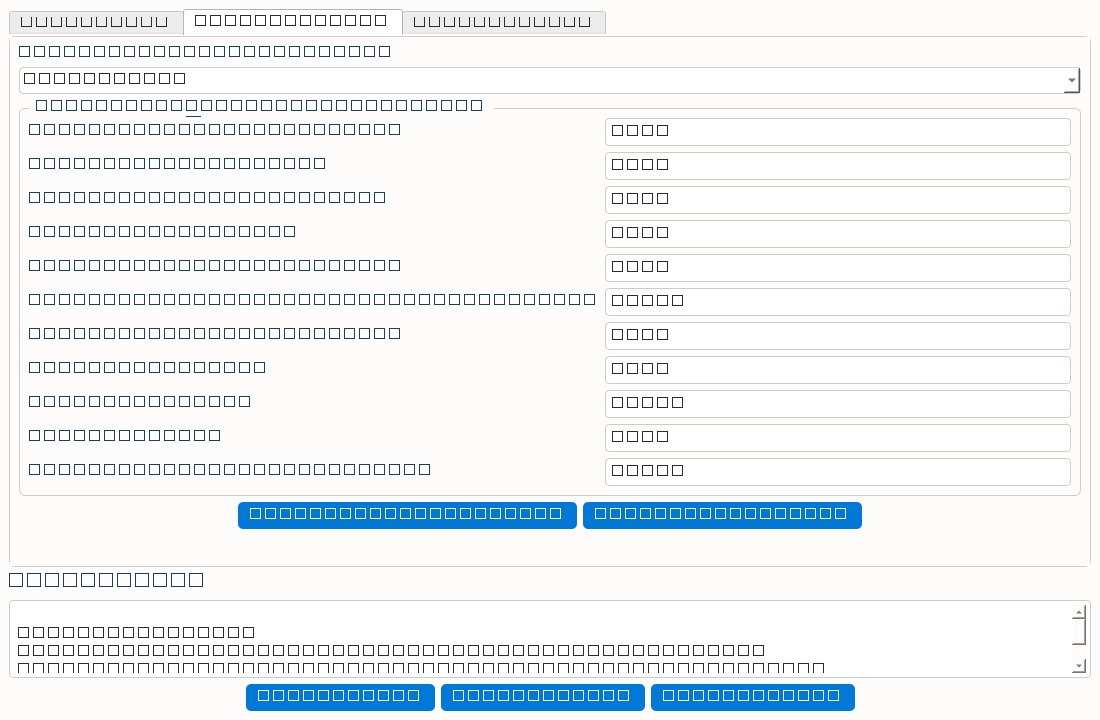
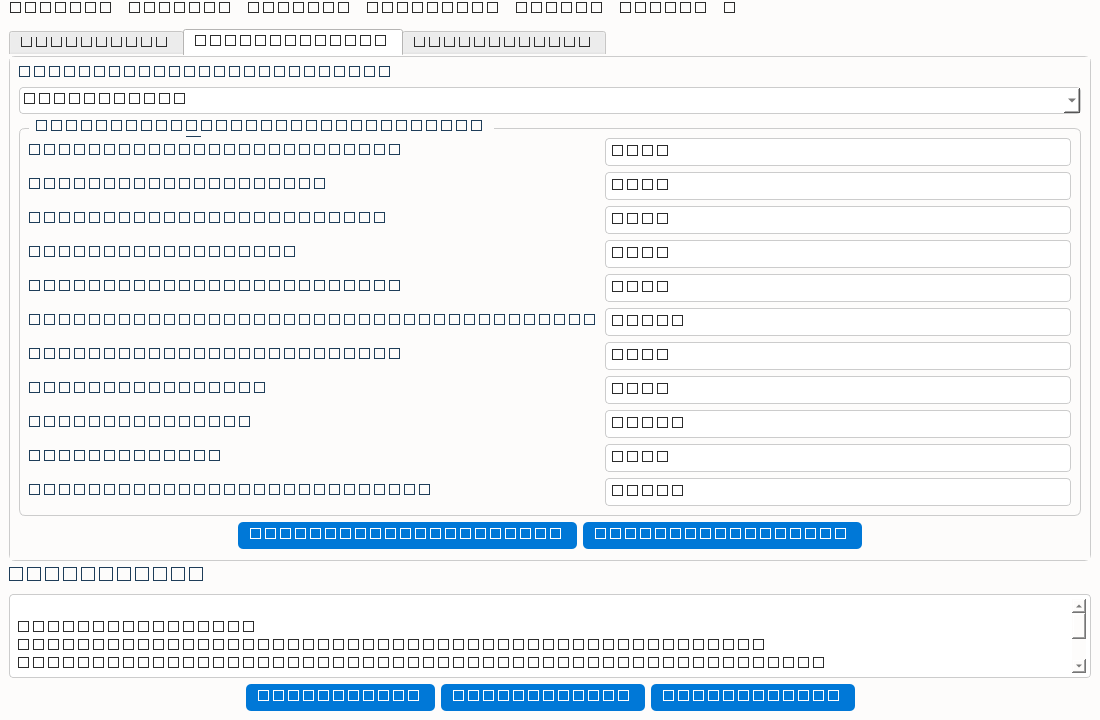
GUI: reorganisation Entrees chateau (2 lignes + coupoles/ceintures l,h), sismique 1 ligne, barre menu, suppression champ e_cuve armatures

diff --git a/gui/main_window.py b/gui/main_window.py
@@ -9,7 +9,7 @@ from PySide6.QtGui import QIcon
 from PySide6.QtWidgets import (
     QMainWindow, QWidget, QVBoxLayout, QHBoxLayout, QPushButton, QLabel,
     QLineEdit, QComboBox, QTextEdit, QGroupBox, QFormLayout, QGridLayout, QTabWidget,
-    QFileDialog, QMessageBox,
+    QFileDialog, QMessageBox, QMenu, QMenuBar,
 )
 import csv
 
@@ -63,6 +63,7 @@ class MainWindow(QMainWindow):
         self._build_entrees()
         self._build_fondations()
         self._build_armatures()
+        self._build_menu()
         self._refresh_fond_shape()
 
         # Résultats + actions
@@ -137,25 +138,42 @@ class MainWindow(QMainWindow):
         # Coupoles (saisies 1re page -> poids dans le dimensionnement)
         self.cs_d = QLineEdit("18.0"); self.cs_f = QLineEdit("1.80"); self.cs_e = QLineEdit("0.30")
         self.ci_d = QLineEdit("10.0"); self.ci_f = QLineEdit("1.25"); self.ci_e = QLineEdit("0.30")
-        row = 0
-        for lbl, w in [("H_fluide (m)", self.h_fluide_ce), ("R_fond (m)", self.r_fond_ce),
-                       ("R_surface (m)", self.r_surface_ce)]:
-            g.addWidget(QLabel(lbl), row, 0); g.addWidget(w, row, 1); row += 1
-        for lbl, w in [("H_fût (m)", self.h_fut_ce), ("R_fût base (m)", self.r_fut_base_ce),
-                       ("R_fût sommet (m)", self.r_fut_sommet_ce)]:
-            g.addWidget(QLabel(lbl), row, 0); g.addWidget(w, row, 1); row += 1
-        for lbl, w in [("Épais. fût (m)", self.ep_fut_ce), ("Épais. cuve (m)", self.ep_cuve_ce)]:
-            g.addWidget(QLabel(lbl), row, 0); g.addWidget(w, row, 1)
-        row += 1
-        g.addWidget(QLabel("<b>Coupole sup</b> (D/10, Fasc.74)"), row, 0, 1, 3); row += 1
-        for lbl, w in [("  D sommet (m)", self.cs_d), ("  flèche f (m)", self.cs_f),
-                       ("  épais. e (m)", self.cs_e)]:
-            g.addWidget(QLabel(lbl), row, 0); g.addWidget(w, row, 1); row += 1
-        g.addWidget(QLabel("<b>Coupole inf</b> (d/8, Fasc.74)"), row, 0, 1, 3); row += 1
-        for lbl, w in [("  d base (m)", self.ci_d), ("  flèche f (m)", self.ci_f),
-                       ("  épais. e (m)", self.ci_e)]:
-            g.addWidget(QLabel(lbl), row, 0); g.addWidget(w, row, 1); row += 1
+        # Ceintures de liaison (section rectangulaire : largeur l, hauteur h)
+        self.cs_l = QLineEdit("0.40"); self.cs_h = QLineEdit("0.60")
+        self.ci_l = QLineEdit("0.50"); self.ci_h = QLineEdit("0.70")
+
+        def add_row(row, specs):
+            for i, (lbl, w) in enumerate(specs):
+                g.addWidget(QLabel(lbl), row, i * 2)
+                g.addWidget(w, row, i * 2 + 1)
+
+        add_row(0, [("H_fluide (m)", self.h_fluide_ce), ("R_fond (m)", self.r_fond_ce),
+                    ("R_surface (m)", self.r_surface_ce), ("Épais. cuve (m)", self.ep_cuve_ce)])
+        add_row(1, [("H_fût (m)", self.h_fut_ce), ("R_fût base (m)", self.r_fut_base_ce),
+                    ("R_fût sommet (m)", self.r_fut_sommet_ce), ("Épais. fût (m)", self.ep_fut_ce)])
+        g.addWidget(QLabel("<b>Coupole sup</b> (flèche ≥ D/10, Fasc.74)"), 2, 0, 1, 6)
+        add_row(3, [("D base = 2·R_surface (m)", self.cs_d), ("flèche f (m)", self.cs_f),
+                    ("épais. e (m)", self.cs_e)])
+        g.addWidget(QLabel("<b>Coupole inf</b> (flèche ≥ d/8, Fasc.74)"), 4, 0, 1, 6)
+        add_row(5, [("d base = 2·R_fond (m)", self.ci_d), ("flèche f (m)", self.ci_f),
+                    ("épais. e (m)", self.ci_e)])
+        g.addWidget(QLabel("<b>Ceinture sup</b> (anneau cuve ↔ coupole sup)"), 6, 0, 1, 6)
+        add_row(7, [("largeur l (m)", self.cs_l), ("hauteur h (m)", self.cs_h)])
+        g.addWidget(QLabel("<b>Ceinture inf</b> (anneau fût ↔ cuve ↔ coupole inf)"), 8, 0, 1, 6)
+        add_row(9, [("largeur l (m)", self.ci_l), ("hauteur h (m)", self.ci_h)])
         self.chateau_eau_group.setLayout(g)
+        # D base et d base suivent les rayons (formules) mais restent éditables
+        self.r_surface_ce.textChanged.connect(
+            lambda _: self._maj_diametre_coupole(self.r_surface_ce, self.cs_d))
+        self.r_fond_ce.textChanged.connect(
+            lambda _: self._maj_diametre_coupole(self.r_fond_ce, self.ci_d))
+
+    def _maj_diametre_coupole(self, radius_edit, diam_edit):
+        try:
+            r = float(radius_edit.text())
+        except ValueError:
+            return
+        diam_edit.setText(f"{2.0 * r:.2f}")
 
     def setup_reservoir_enterre_group(self):
         self.reservoir_enterre_group = QGroupBox("Paramètres du Réservoir Semi-Enterré")
@@ -192,8 +210,8 @@ class MainWindow(QMainWindow):
         self.q_input = QLineEdit("2.0")
         g.addWidget(QLabel("Règlement:"), 0, 0); g.addWidget(self.regulation_combo, 0, 1)
         g.addWidget(QLabel("Zone:"), 0, 2); g.addWidget(self.zone_combo, 0, 3)
-        g.addWidget(QLabel("Sol:"), 1, 0); g.addWidget(self.soil_combo, 1, 1)
-        g.addWidget(QLabel("q:"), 1, 2); g.addWidget(self.q_input, 1, 3)
+        g.addWidget(QLabel("Sol:"), 0, 4); g.addWidget(self.soil_combo, 0, 5)
+        g.addWidget(QLabel("q:"), 0, 6); g.addWidget(self.q_input, 0, 7)
         self.sismique_group.setLayout(g)
         self.regulation_combo.currentTextChanged.connect(lambda t: setattr(self, "regulation", t))
 
@@ -301,12 +319,10 @@ class MainWindow(QMainWindow):
         self.arm_wmax = QLineEdit("0.20")
         self.arm_qcouv = QLineEdit("1.50")
         self.arm_qlan = QLineEdit("10.0")
-        self.arm_ecuve = QLineEdit("0.35")
         self.arm_ecouv = QLineEdit("")
         fopt.addRow("Limite fissuration w_max (mm) :", self.arm_wmax)
         fopt.addRow("Charge couverture q_couv (kN/m²) :", self.arm_qcouv)
         fopt.addRow("Charge lanterneau Q (kN) :", self.arm_qlan)
-        fopt.addRow("Épaisseur cuve/ceintures e (m) :", self.arm_ecuve)
         fopt.addRow("Épaisseur dalle couverture (m) :", self.arm_ecouv)
         layout.addLayout(fopt)
 
@@ -316,6 +332,97 @@ class MainWindow(QMainWindow):
         h = QHBoxLayout(); h.addStretch(); h.addWidget(self.btn_arm); h.addStretch()
         layout.addLayout(h)
         layout.addStretch()
+
+    # -------------------------------------------------------------- Menu
+    def _build_menu(self):
+        menubar = self.menuBar()
+
+        def a_venir(msg):
+            QMessageBox.information(self, "À venir", f"Fonctionnalité prévue (feuille de route) :\n{msg}")
+
+        # ---- Fichier ----
+        fichier = menubar.addMenu("Fichier")
+        fichier.addAction("Nouveau…", lambda: a_venir("Nouveau projet (fichier .mkpro)"))
+        fichier.addAction("Ouvrir…", lambda: a_venir("Ouvrir un projet (.mkpro)"))
+        fichier.addAction("Enregistrer", lambda: a_venir("Enregistrer le projet (.mkpro)"))
+        fichier.addSeparator()
+        fichier.addAction("Lancer l'Analyse", self.run_analysis)
+        fichier.addAction("Exporter PDF…", self.generer_pdf)
+        fichier.addAction("Exporter DOCX…", self.generer_docx)
+        fichier.addAction("Exporter CSV…", self.exporter_csv)
+        fichier.addSeparator()
+        fichier.addAction("Quitter", self.close)
+
+        # ---- Édition ----
+        edition = menubar.addMenu("Édition")
+        edition.addAction("Annuler", lambda: a_venir("Annuler / Rétablir"))
+        edition.addAction("Rétablir", lambda: a_venir("Annuler / Rétablir"))
+        edition.addAction("Copier les paramètres", lambda: a_venir("Copier les paramètres d'un ouvrage à l'autre"))
+        edition.addAction("Paramètres par défaut", lambda: a_venir("Restaurer les usines"))
+
+        # ---- Analyse ----
+        analyse = menubar.addMenu("Analyse")
+        analyse.addAction("Lancer l'analyse sismique", self.run_analysis)
+        analyse.addAction("Vérifier la fondation", self.run_foundation)
+        analyse.addAction("Auto-dimensionner le radier", self.auto_foundation)
+        analyse.addAction("Calculer les armatures", self.run_armatures)
+        analyse.addAction("Réinitialiser les résultats", self.reinitialiser_resultats)
+
+        # ---- Affichage ----
+        affichage = menubar.addMenu("Affichage")
+        affichage.addAction("Agrandir les croquis", lambda: a_venir("Zoom des croquis"))
+        affichage.addAction("Thème clair / sombre", lambda: a_venir("Bascule thème clair/sombre"))
+
+        # ---- Outils ----
+        outils = menubar.addMenu("Outils")
+        outils.addAction("Règlements (RPS 2011 / EC8)", lambda: a_venir("Éditeur de règlements & spectres"))
+        outils.addAction("Bibliothèque de sols", lambda: a_venir("Bibliothèque de sols (φ, γ, δ)"))
+        outils.addAction("Bibliothèque bétons/aciers", lambda: a_venir("Bibliothèque de bétons & aciers"))
+        outils.addAction("Comparateur de scénarios", lambda: a_venir("Comparateur vide vs plein / plusieurs géométries"))
+
+        # ---- Langue ----
+        langue = menubar.addMenu("Langue")
+        langue.addAction("Français", lambda: a_venir("Basculer l'interface en français"))
+        langue.addAction("English", lambda: a_venir("Switch interface to English"))
+        langue.addAction("العربية", lambda: a_venir("تبديل الواجهة إلى العربية"))
+
+        # ---- Aide ----
+        aide = menubar.addMenu("?")
+        aide.addAction("À propos", self.a_propos)
+        aide.addAction("Guide de prise en main", lambda: a_venir("Guide de prise en main"))
+        aide.addAction("Références", self.references)
+
+    def a_propos(self):
+        QMessageBox.about(
+            self, "À propos — MK_AnalyseSismiqueUnifiée_Pro",
+            "Outil d'analyse sismique et de dimensionnement pour châteaux d'eau "
+            "surélevés et réservoirs (semi-)enterrés.\n\n"
+            "Méthodes : Housner (liquide), Mononobe–Okabe (terres), combinaisons "
+            "VIDE / PLEIN. Règlements : RPS 2011 (Maroc) et Eurocode 8.\n\n"
+            "Pré-dimensionnement documenté — à vérifier par un ingénieur.")
+
+    def references(self):
+        QMessageBox.information(
+            self, "Références",
+            "• Housner G.W., Dynamic pressures on fluid containers, 1963.\n"
+            "• Mononobe N. & Okabe S., Earth pressure during earthquakes, 1929.\n"
+            "• RPS 2011 (Maroc), annexes sismiques.\n"
+            "• Eurocode 8 (EN 1998-1) et Eurocode 2 (EN 1992-1-1).\n"
+            "• BAEL 91 modifié (référence historique Maroc).\n"
+            "• Fascicule 74 (cuves en béton armé, fissuration).")
+
+    def reinitialiser_resultats(self):
+        self.rapport_analyse = None
+        self.rapport_fondation = None
+        self.rapport_armatures = None
+        self.foundation_input = None
+        self.fondation_ok = False
+        self.armatures_ok = False
+        self.tabs.setTabEnabled(1, False)
+        self.tabs.setTabEnabled(2, False)
+        self.btn_arm.setEnabled(False)
+        self._disable_exports()
+        self.results_display.clear()
 
     # ------------------------------------------------------------- Analyse
     def _read_analysis(self):
@@ -338,6 +445,10 @@ class MainWindow(QMainWindow):
                 "coupole_inf_d": lire_valeur(self.ci_d, "d coupole inf"),
                 "coupole_inf_f": lire_valeur(self.ci_f, "flèche coupole inf"),
                 "coupole_inf_e": lire_valeur(self.ci_e, "épais. coupole inf"),
+                "ceinture_sup_l": lire_valeur(self.cs_l, "largeur ceinture sup"),
+                "ceinture_sup_h": lire_valeur(self.cs_h, "hauteur ceinture sup"),
+                "ceinture_inf_l": lire_valeur(self.ci_l, "largeur ceinture inf"),
+                "ceinture_inf_h": lire_valeur(self.ci_h, "hauteur ceinture inf"),
             }
             params_fut = {
                 "H_fut": lire_valeur(self.h_fut_ce, "H_fut"),
@@ -495,7 +606,6 @@ class MainWindow(QMainWindow):
                 "w_max": lire_valeur(self.arm_wmax, "w_max"),
                 "q_couv": lire_valeur(self.arm_qcouv, "q_couv"),
                 "Q_lanterneau": lire_valeur(self.arm_qlan, "Q_lanterneau"),
-                "e_cuve": lire_valeur(self.arm_ecuve, "e_cuve"),
                 "e_couv": lire_valeur(self.arm_ecouv, "e_couv") if self.arm_ecouv.text().strip() else None,
             }
         except ValueError as e:

diff --git a/core/reinforcement.py b/core/reinforcement.py
@@ -240,10 +240,17 @@ def _section_coupoles(items: List[Item], geom: dict, H_eau: float,
     d_inf = geom.get("coupole_inf_d", 2.0 * Rf)
     f_inf = geom.get("coupole_inf_f", d_inf / 8.0)
     e_cinf = geom.get("coupole_inf_e", max(0.15, d_inf / 35.0))
+    # Ceintures sup/inf : anneaux de liaison à section rectangulaire (largeur l, hauteur h)
+    csup_l = geom.get("ceinture_sup_l", 0.40)
+    csup_h = geom.get("ceinture_sup_h", 0.60)
+    cinf_l = geom.get("ceinture_inf_l", 0.50)
+    cinf_h = geom.get("ceinture_inf_h", 0.70)
     Rs_s = (D_sup**2 / 4.0 + f_sup**2) / (2.0 * f_sup) if f_sup > 0 else D_sup / 2.0
     Rs_i = (d_inf**2 / 4.0 + f_inf**2) / (2.0 * f_inf) if f_inf > 0 else d_inf / 2.0
     d_s = _d_eff(e_csup * 1000.0, f)
     d_i = _d_eff(e_cinf * 1000.0, f)
+    d_cs = _d_eff(csup_h * 1000.0, f)
+    d_ci = _d_eff(cinf_h * 1000.0, f)
 
     # ---- COUPOLE SUPERIEURE (hors eau) ----
     T_s = GAMMA_B * e_csup * Rs_s / 2.0     # poids propre (kPa->kN/m)
@@ -260,8 +267,10 @@ def _section_coupoles(items: List[Item], geom: dict, H_eau: float,
     items += [
         Item("CEINTURE SUP (cuve ↔ coupole sup)", "", "", "anneau de liaison — limite eau"),
         Item("  Tension anneau T (kN/m)", round(T_s, 1), "kN/m"),
+        Item("  Largeur anneau l (m)", round(csup_l, 3), "m", "saisie 1re page"),
+        Item("  Hauteur anneau h (m)", round(csup_h, 3), "m", "saisie 1re page"),
     ]
-    _gouverne(items, "Ceinture sup (anneau)", T_s, T_s, d_s, e_csup * 1000.0, fy, fck,
+    _gouverne(items, "Ceinture sup (anneau)", T_s, T_s, d_cs, csup_h * 1000.0, fy, fck,
               norme, 0.20, as_min, mode="tension", crack=True)
 
     # ---- COUPOLE INFÉRIEURE (contact eau) ----
@@ -280,8 +289,10 @@ def _section_coupoles(items: List[Item], geom: dict, H_eau: float,
     items += [
         Item("CEINTURE INF (fût ↔ cuve ↔ coupole inf)", "", "", "anneau de liaison — contact eau"),
         Item("  Tension anneau T (kN/m)", round(T_inf_anneau, 1), "kN/m"),
+        Item("  Largeur anneau l (m)", round(cinf_l, 3), "m", "saisie 1re page"),
+        Item("  Hauteur anneau h (m)", round(cinf_h, 3), "m", "saisie 1re page"),
     ]
-    _gouverne(items, "Ceinture inf (anneau)", T_inf_anneau, T_inf_anneau, d_i, e_cinf * 1000.0,
+    _gouverne(items, "Ceinture inf (anneau)", T_inf_anneau, T_inf_anneau, d_ci, cinf_h * 1000.0,
               fy, fck, norme, 0.20, as_min, mode="tension", crack=True)
 
 

diff --git a/core/analyse_structure.py b/core/analyse_structure.py
@@ -108,6 +108,10 @@ def analyser_chateau_eau_complet(
         d_inf = params_reservoir.get("coupole_inf_d", 2.0 * R_f)
         f_inf = params_reservoir.get("coupole_inf_f", d_inf / 8.0)
         e_cinf = params_reservoir.get("coupole_inf_e", max(0.15, d_inf / 35.0))
+        csup_l = params_reservoir.get("ceinture_sup_l", 0.40)
+        csup_h = params_reservoir.get("ceinture_sup_h", 0.60)
+        cinf_l = params_reservoir.get("ceinture_inf_l", 0.50)
+        cinf_h = params_reservoir.get("ceinture_inf_h", 0.70)
 
         reg = params_sismiques["regulation"]
         zone = params_sismiques["zone"]
@@ -196,6 +200,8 @@ def analyser_chateau_eau_complet(
             "epaisseur_cuve_m": e_cuve, "epaisseur_fut_m": e_fut,
             "coupole_sup_D": D_sup, "coupole_sup_f": f_sup, "coupole_sup_e": e_csup,
             "coupole_inf_d": d_inf, "coupole_inf_f": f_inf, "coupole_inf_e": e_cinf,
+            "ceinture_sup_l": csup_l, "ceinture_sup_h": csup_h,
+            "ceinture_inf_l": cinf_l, "ceinture_inf_h": cinf_h,
         })
 
         report.section("PARAMÈTRES HOUSNER (liquide)", [
